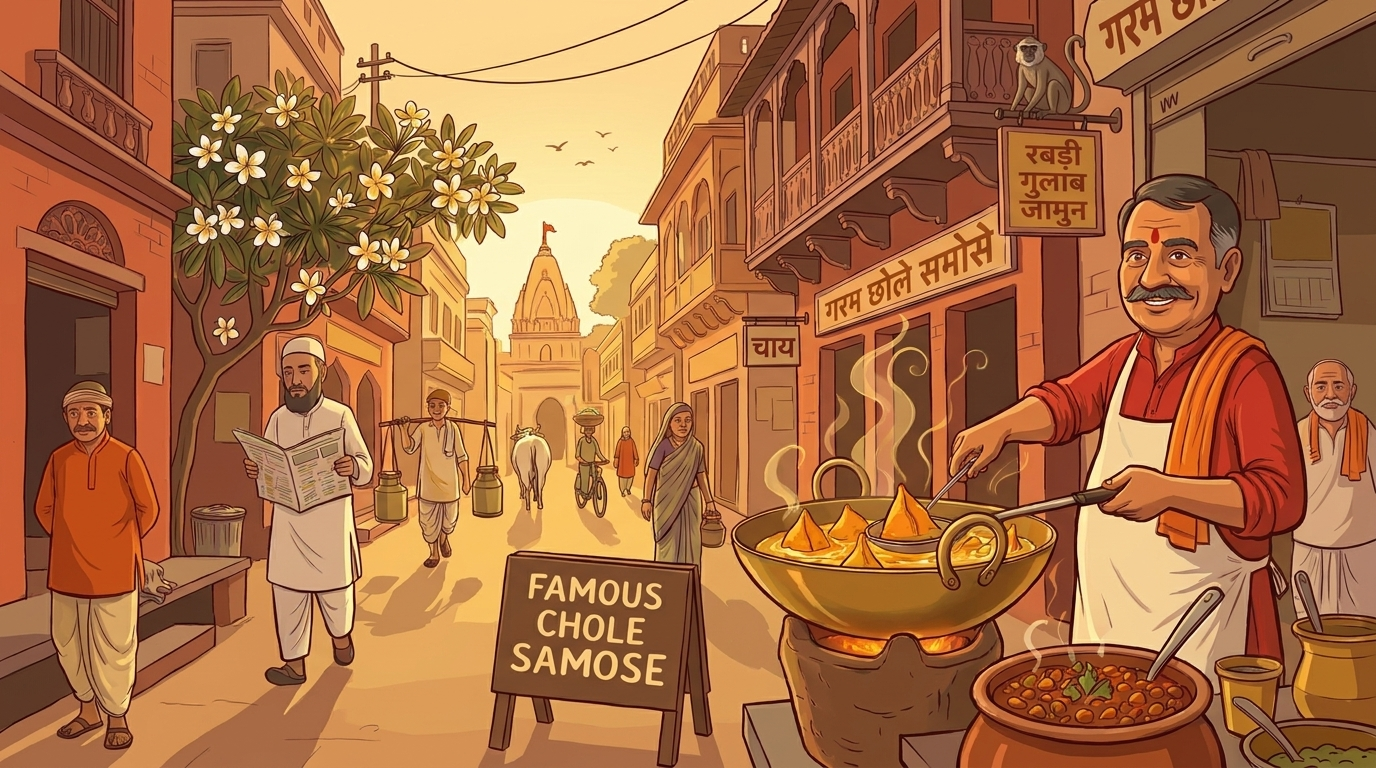
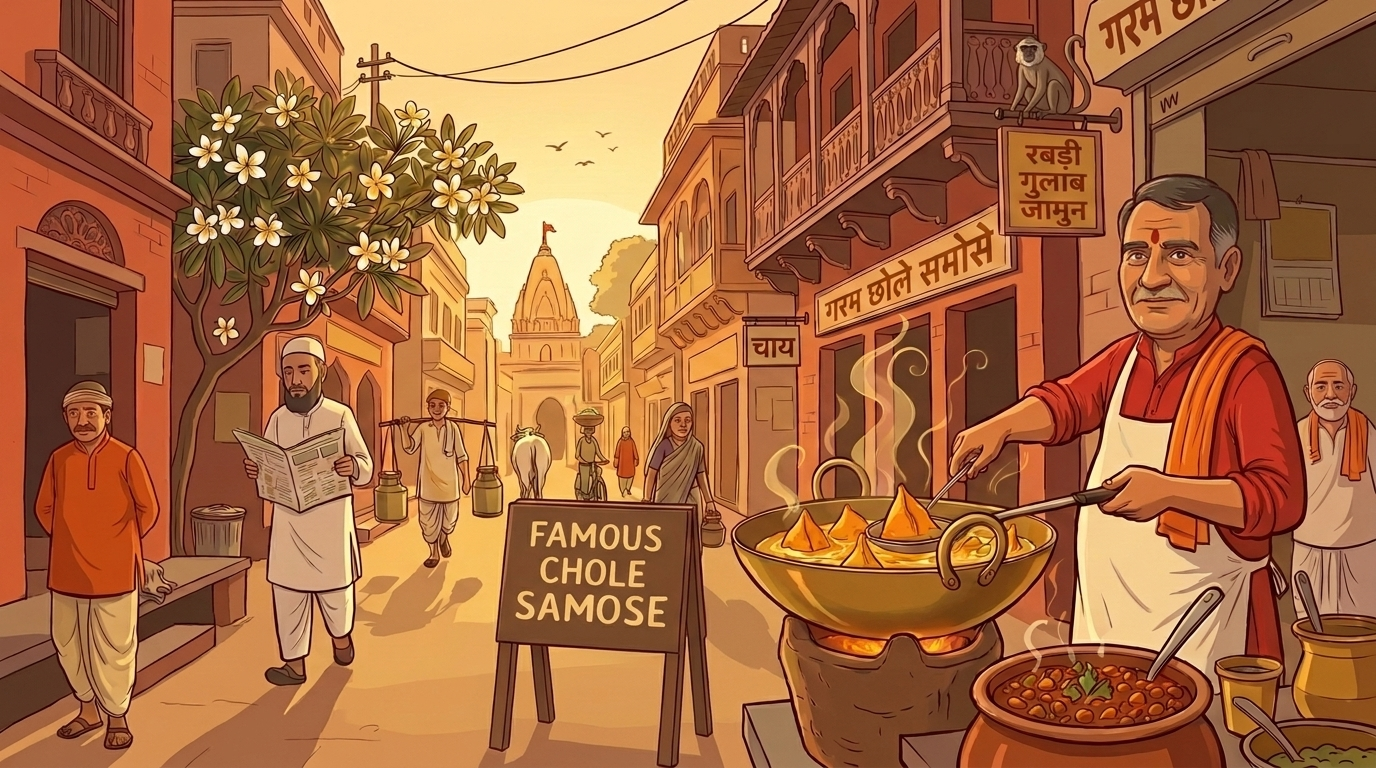
Hero: raised the FAMOUS CHOLE SAMOSE board (taller stand) so it sits in middle-third
- Regen kept every element identical (Papa's face, tree, temple, gully
  characters, monkey, cow, kadai, samosas, chole bowl, all shop signs)
  and ONLY grew the wooden A-frame legs under the board.
- Effect: the board now floats in the middle-third of the illustration
  with all three lines (FAMOUS / CHOLE / SAMOSE) at eye level. Short
  viewports crop the illustration bottom without cutting off the board.
- Bumped cache-bust: hero ?v=14 -> ?v=15, css v52 -> v53.

diff --git a/index.html b/index.html
@@ -9,7 +9,7 @@
   <link rel="preconnect" href="https://fonts.googleapis.com" />
   <link rel="preconnect" href="https://fonts.gstatic.com" crossorigin />
   <link href="https://fonts.googleapis.com/css2?family=Rozha+One&family=Karla:wght@400;500;700&family=Noto+Sans+Devanagari:wght@400;600&family=Caveat:wght@400;600&display=swap" rel="stylesheet" />
-  <link rel="stylesheet" href="style.css?v=52" />
+  <link rel="stylesheet" href="style.css?v=53" />
   <link rel="icon" type="image/png" href="assets/logo-main.png" />
   <meta http-equiv="Cache-Control" content="no-cache, no-store, must-revalidate" />
   <meta http-equiv="Pragma" content="no-cache" />

diff --git a/style.css b/style.css
@@ -195,7 +195,7 @@ a { color: inherit; text-decoration: none; }
 }
 .hero__bg {
   position: absolute; inset: 0;
-  background-image: url('assets/01-hero-gully-dawn.png?v=14');
+  background-image: url('assets/01-hero-gully-dawn.png?v=15');
   background-size: cover;
   background-position: center center;
   transform: scale(1.03);